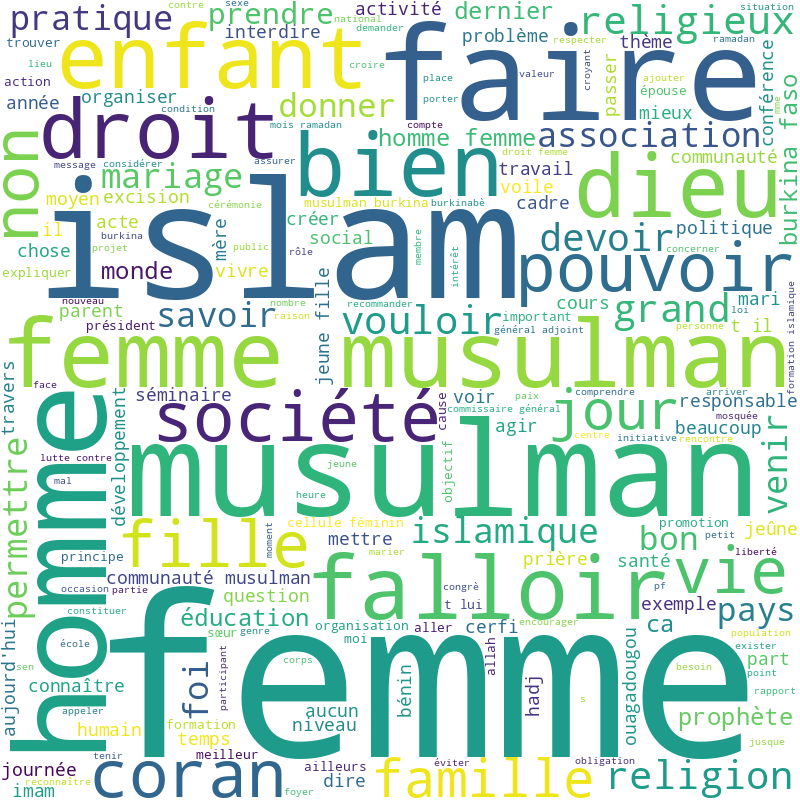
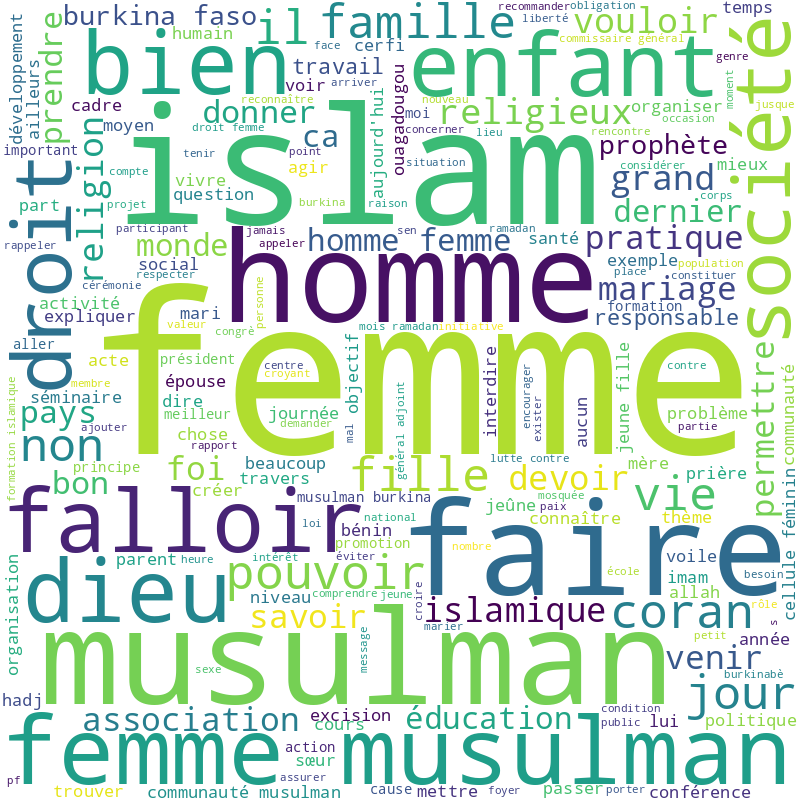
Update

diff --git a/3. nuage_mots.py b/3. nuage_mots.py
@@ -13,7 +13,7 @@ df['Processed_Content'] = df['Processed_Content'].str.lower()
 all_text = ' '.join(df['Processed_Content'].dropna())
 
 # Définir une liste de mots à exclure (stopwords) en plus des stopwords par défaut
-additional_stopwords = {"el", "être"}  # Ajoutez ici les mots à exclure
+additional_stopwords = {"el", "être", "t", "mme"}  # Ajouter ici les mots à exclure
 stopwords = set(STOPWORDS).union(additional_stopwords)
 
 # Créer un objet WordCloud en excluant les stopwords définis
@@ -28,4 +28,4 @@ plt.tight_layout(pad=0)
 # Sauvegarder le nuage de mots en format PNG
 plt.savefig('wordcloud.png')
 
-print("Le nuage de mots, avec exclusions, a été généré et sauvegardé en tant que 'wordcloud_with_exclusions.png'.")
+print("Le nuage de mots a été généré et sauvegardé en tant que 'wordcloud_with_exclusions.png'.")
